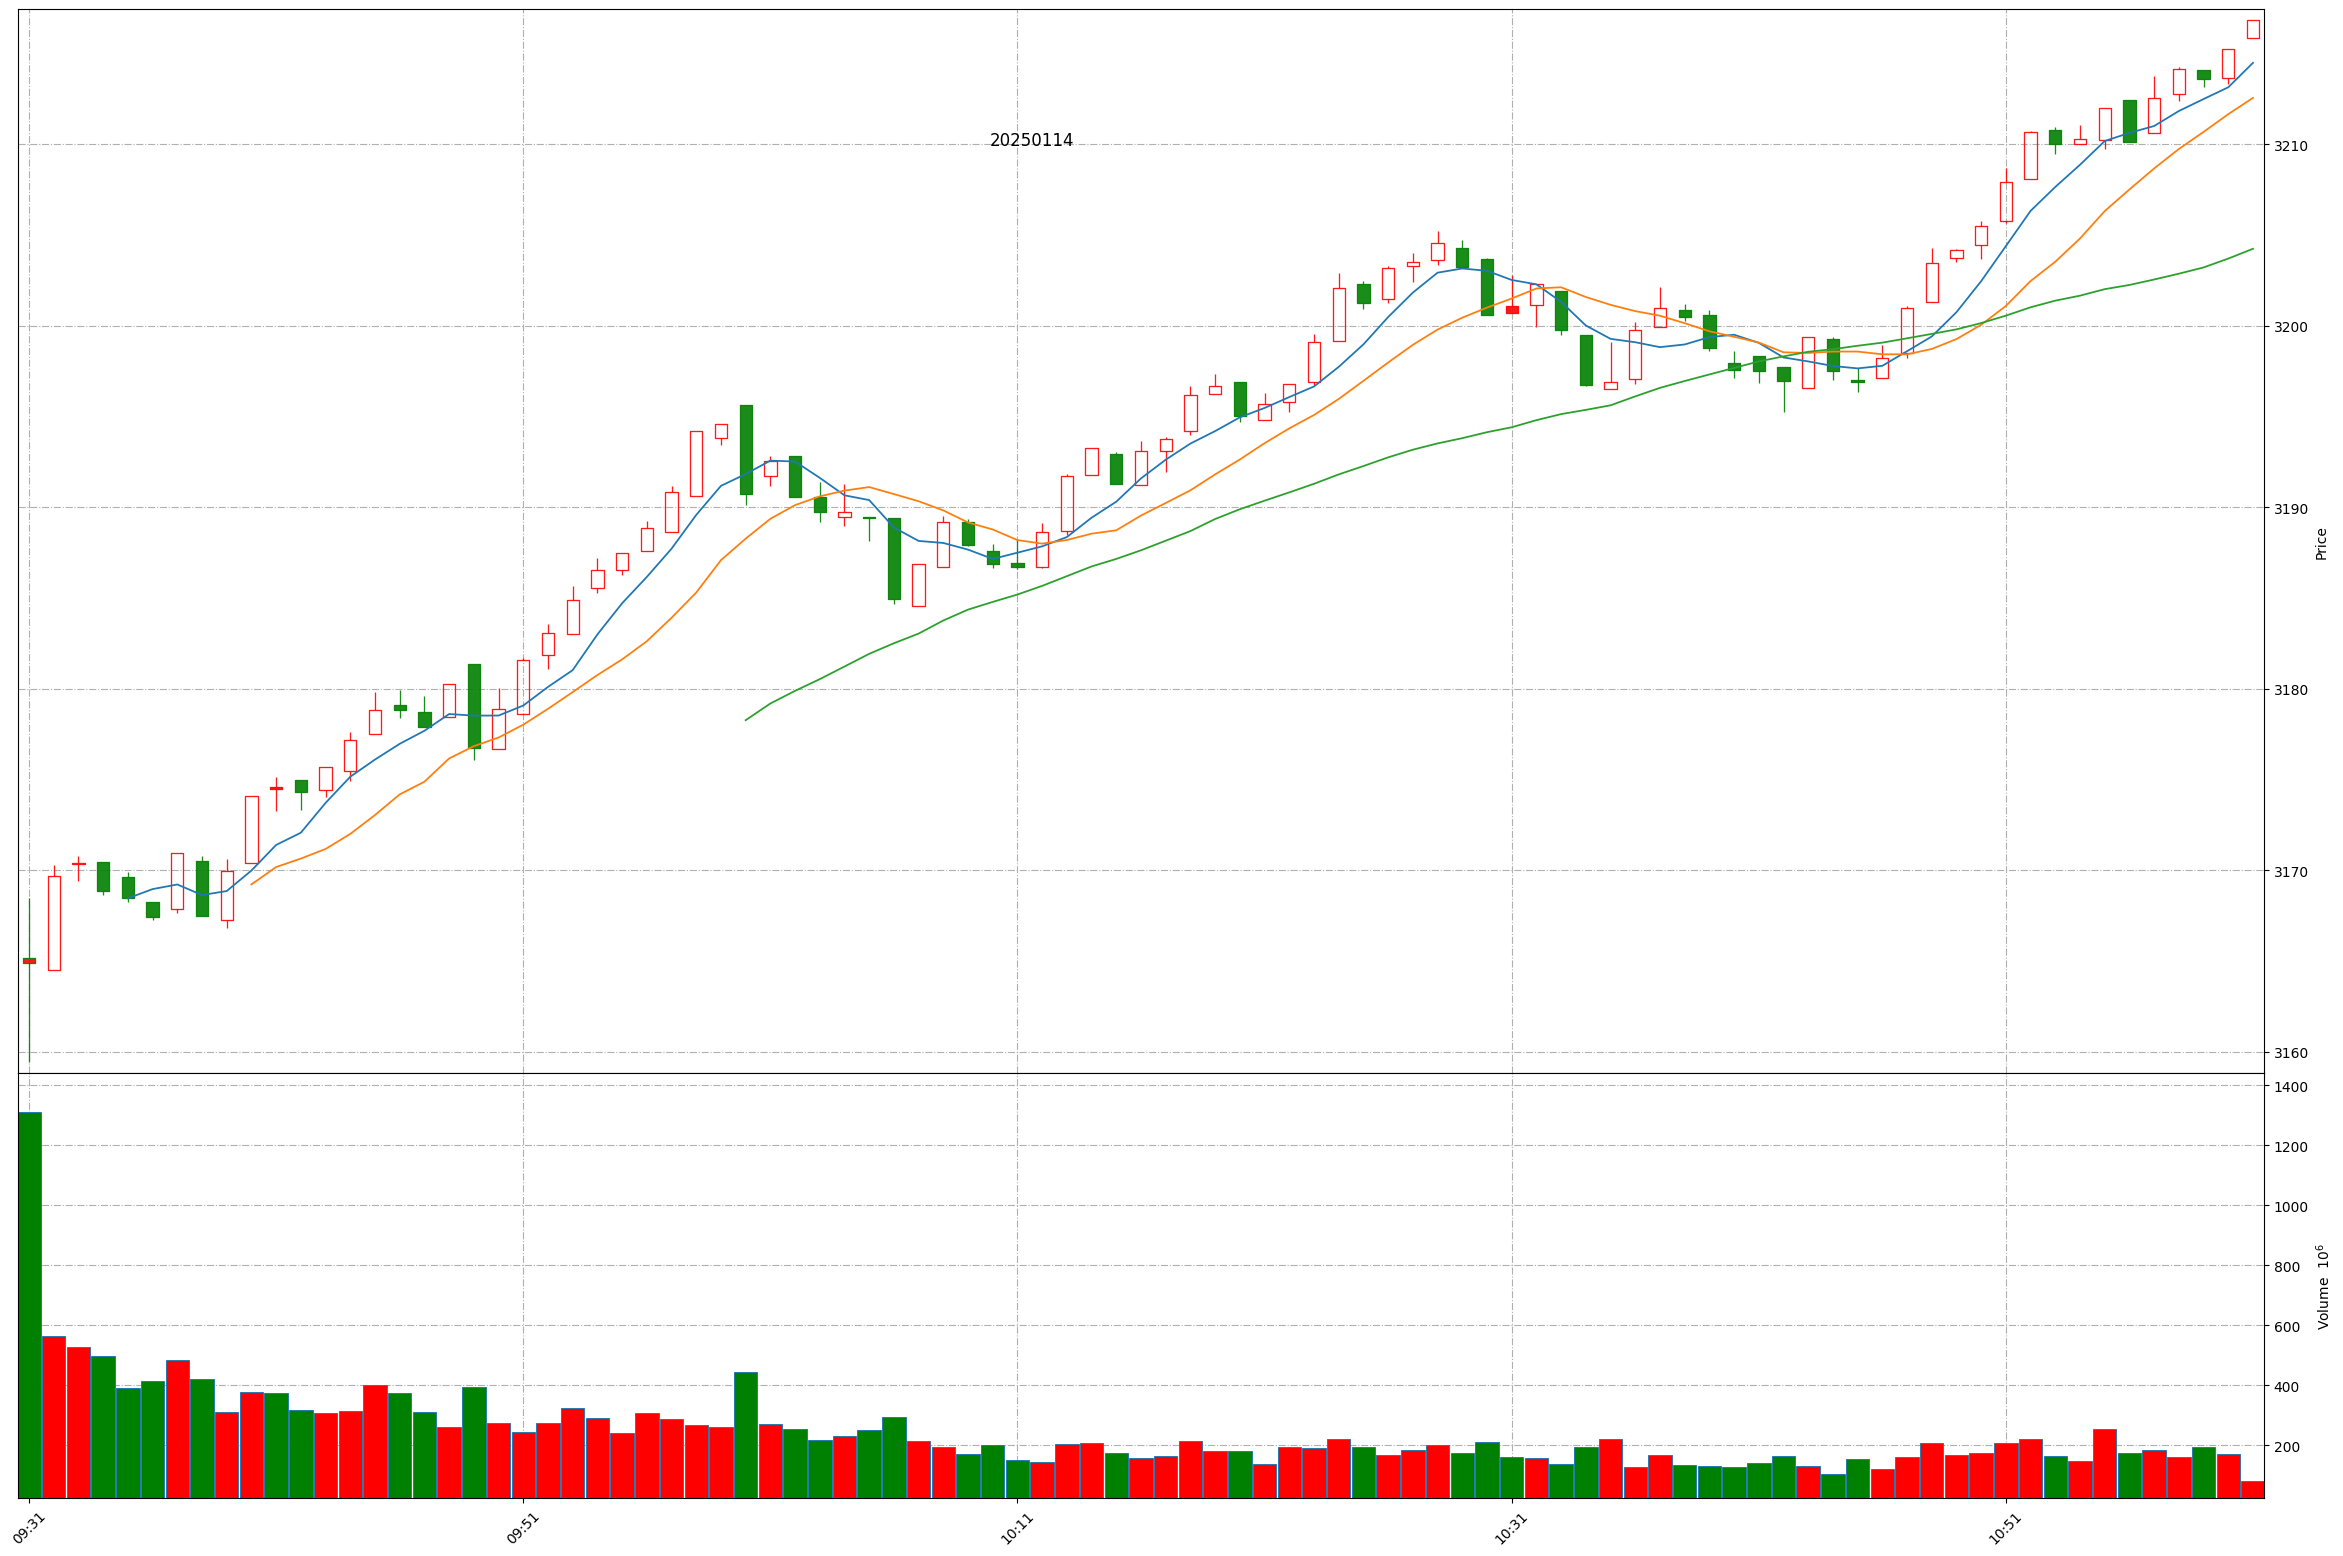
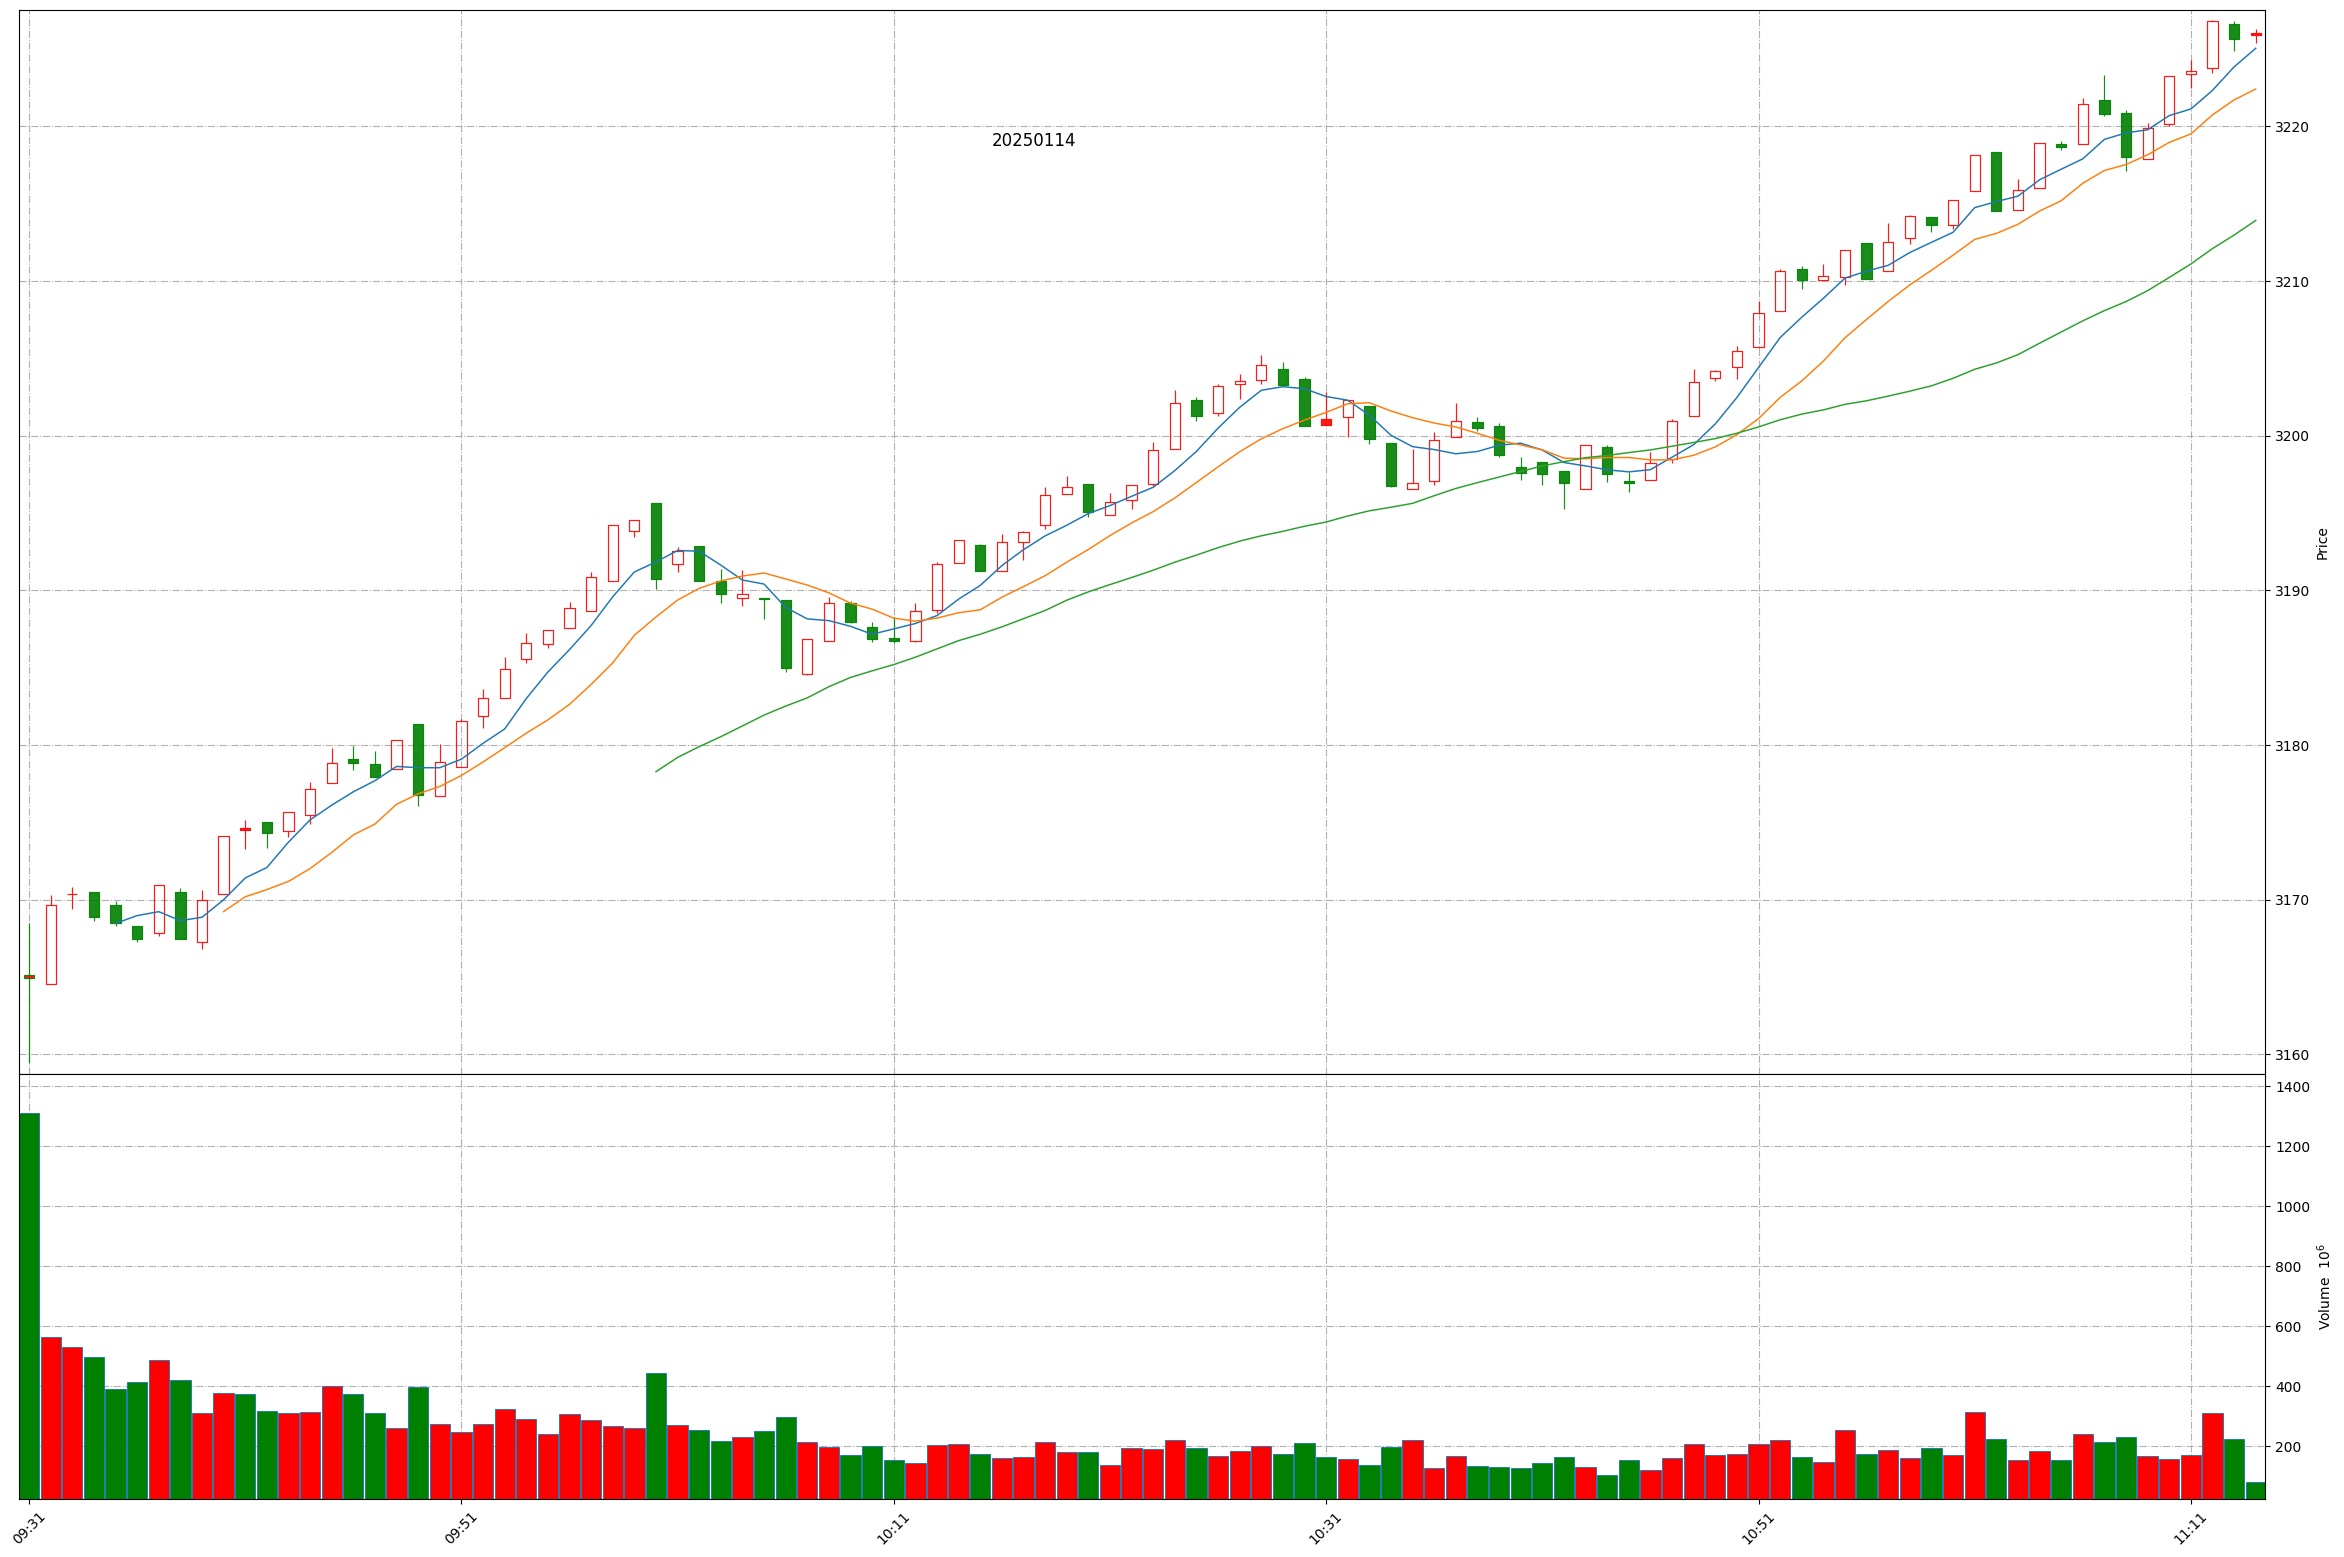
Github action update at 2025-01-14 11:13:56.

diff --git a/README.md b/README.md
@@ -1,11 +1,11 @@
 
 # Daily-A-share-market-quotes 每日 A 股指数（5min 更新）- 20250114
 
-### 上证指数 20250114 11:0
+### 上证指数 20250114 11:13
 ![](./fig/2025/1/20250114-sh000001.png)
 
-### 深证成指 20250114 11:0
+### 深证成指 20250114 11:13
 ![](./fig/2025/1/20250114-sz399001.png)
 
-### 北证50 20250114 11:0
+### 北证50 20250114 11:13
 ![](./fig/2025/1/20250114-bj899050.png)
